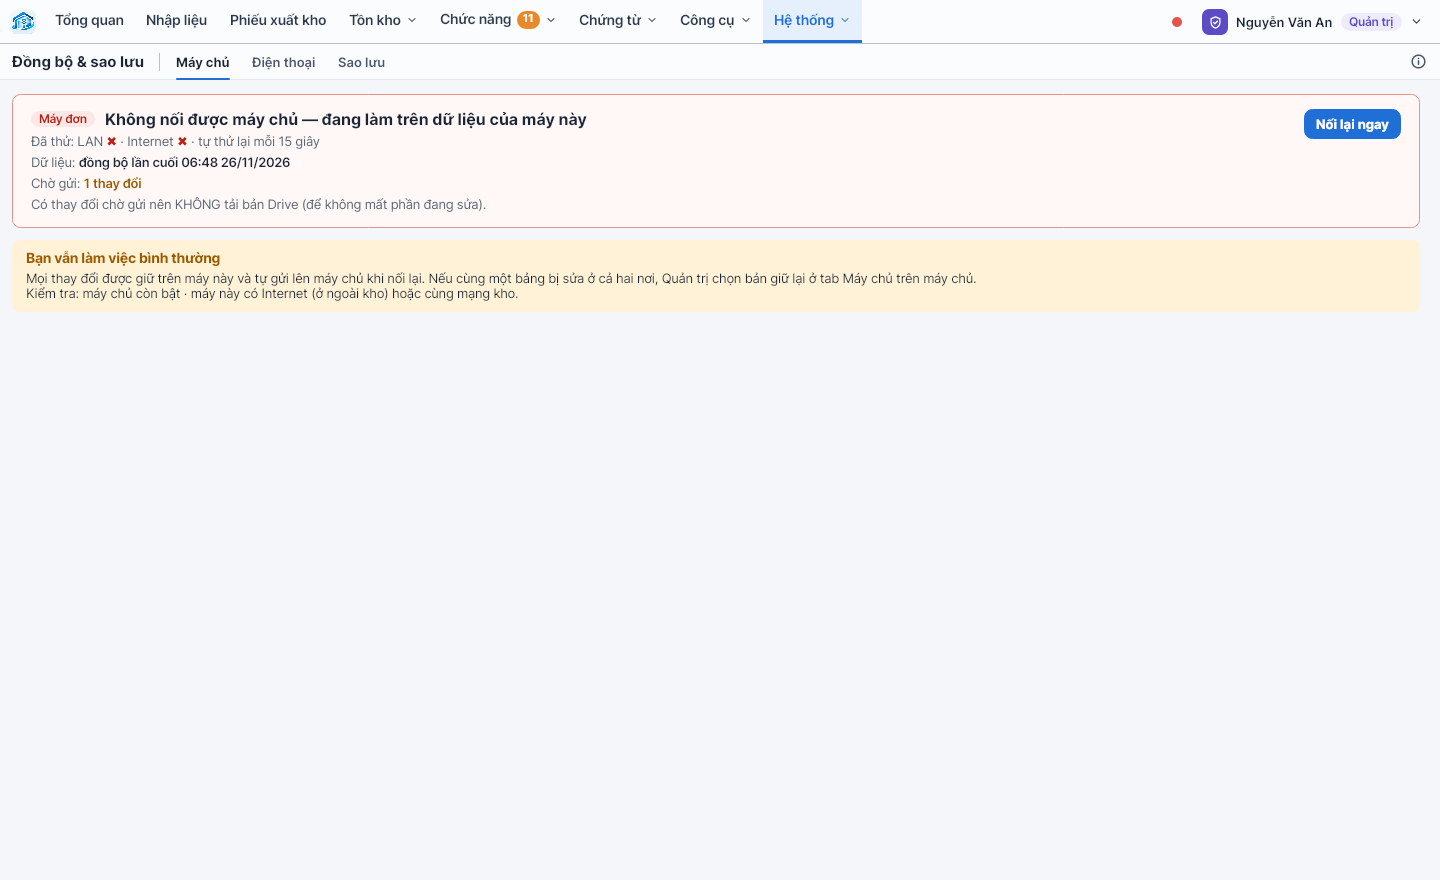
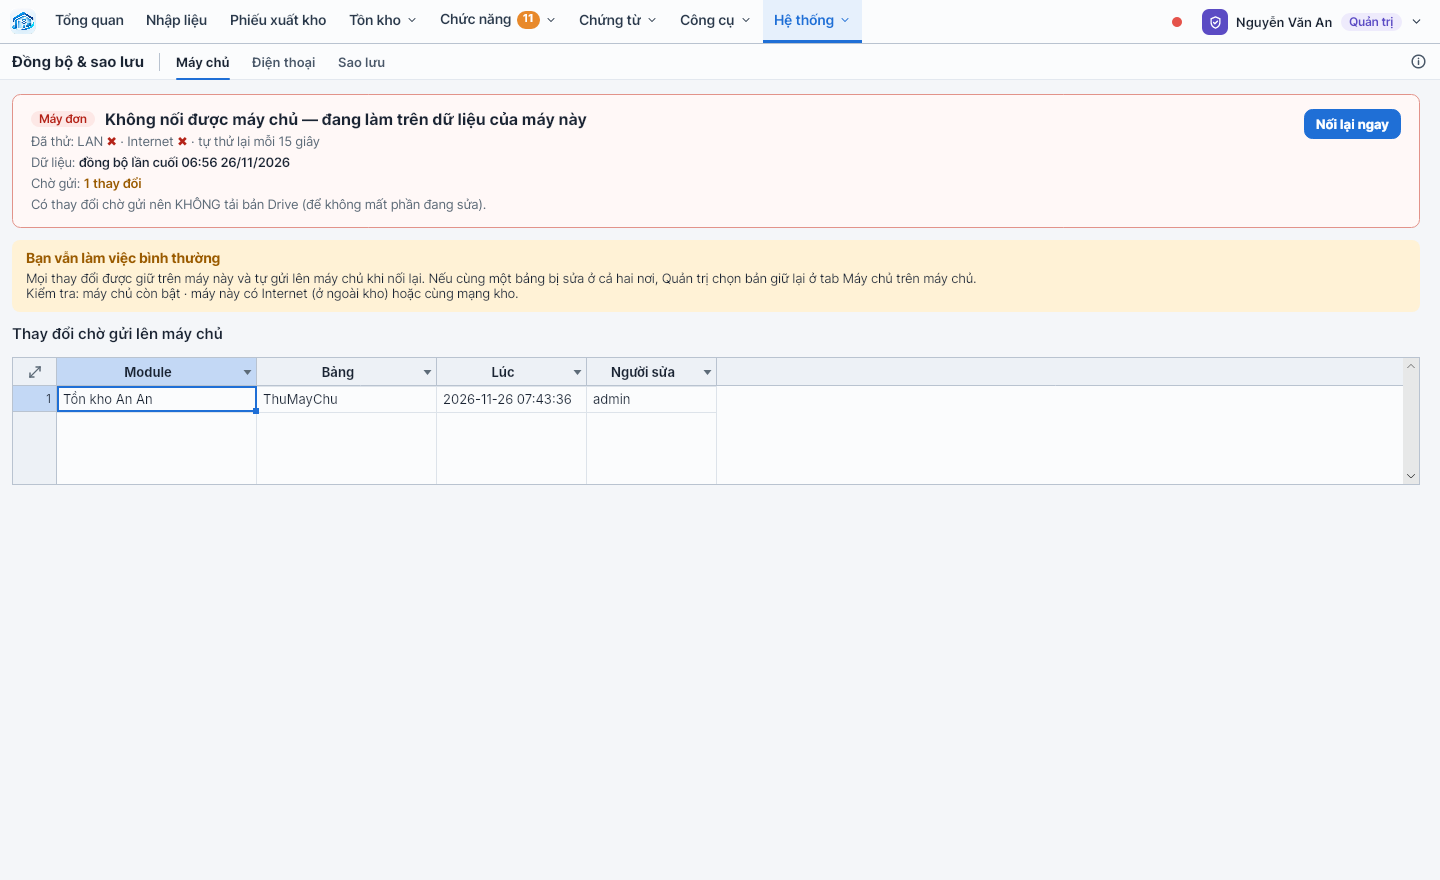
1.121.0: gộp luồng 2 (tab Máy chủ, bỏ Drive dùng chung) — dùng RetryNow / PendingList, ảnh v213, tài liệu
Claude-Session: https://claude.ai/code/session_01MTkPYimQvvPsXpUG8Yg2zd

Changed region(s): [[0.0, 0.3682, 0.25, 0.4909], [0.3125, 0.3989, 0.4688, 0.4602], [0.1562, 0.1841, 0.1875, 0.2148]]

diff --git a/src/KhoLanh.App/Views/MayChuView.cs b/src/KhoLanh.App/Views/MayChuView.cs
@@ -382,11 +382,7 @@ public sealed class MayChuView : UserControl
             {
                 await Ui.Run(this, () =>
                 {
-#if LUONG1
-                    S.Lan.RetryNow();   // luồng 1: vòng sau thử tìm máy chủ ngay
-#else
-                    S.ReloadLan();      // tạm (chưa có LanService.RetryNow): khởi động lại phần LAN → tìm máy chủ ngay
-#endif
+                    S.Lan.RetryNow();   // vòng sau thử tìm máy chủ ngay
                 });
                 Hook();
             }
@@ -398,9 +394,7 @@ public sealed class MayChuView : UserControl
     private void FillPending(int pending)
     {
         List<(string DbKey, string Sheet, string At, string User)> list = new();
-#if LUONG1
         try { list = S.Lan.PendingList(); } catch { }
-#endif
         if (pending == 0 || list.Count == 0) return;
         _pendSec.IsVisible = true;
         var rows = list.Select(x => new[] { KhoLanh.Core.TroLy.TroLyService.DbLabel(x.DbKey), x.Sheet, x.At, x.User }).ToList();

diff --git a/src/KhoLanh.Core/SaoLuu/DriveCaNhanService.cs b/src/KhoLanh.Core/SaoLuu/DriveCaNhanService.cs
@@ -110,7 +110,7 @@ public sealed class DriveCaNhanService
         var lan = _lan();
         if (lan.HoldsMainData) return null;
         return lan.Role == LanService.RoleRemote
-            ? "Máy này là máy xem từ xa (đồng bộ qua Drive dùng chung) — dữ liệu chính ở máy chính, hãy sao lưu / khôi phục ở máy đó."
+            ? "Máy này là máy xem từ xa — dữ liệu chính ở máy chủ, hãy sao lưu / khôi phục ở máy đó."
             : "Máy này là máy con / dự phòng LAN — dữ liệu chính ở máy chủ, hãy sao lưu / khôi phục trên máy chủ.";
     }
 

diff --git a/CLAUDE.md b/CLAUDE.md
@@ -41,7 +41,7 @@ App quản lý kho lạnh **viết lại bằng C#** (.NET 8, Avalonia, SQLite) 
 | 1.39 | Tự tạo List / phiếu theo Lịch xuất (`PNX_AutoLog` dùng chung app cũ) | `LichXuat/LichXuatAuto.cs`, `PhieuKho/PhieuKhoAuto.cs` |
 | 1.40 | Danh mục mã hàng (quyền `m3dm`) | `DanhMuc/` |
 | 1.41 | Kiểm kê nhanh (tab đầu Đối chiếu kiểm kê) | `KiemKe/KkNhanh.cs`, `Views/KiemKeView.Nhanh.cs` |
-| 1.121 | Máy chủ tự động + bỏ Drive dùng chung (người dùng duyệt mẫu https://claude.ai/artifact/GC7duN9rK2i2HAehNG2M9U, chốt: "tự chọn đường nhanh", "máy đơn tự tải bản Drive mới hơn"). Luồng 1 (lõi): `LanService.Via` ("lan" / "net" / ""), `ProbeLan` (đang đi đường hầm → mỗi 60 s thử địa chỉ LAN của máy chủ, chờ 1,5 s, được thì `_goodEp` = LAN), `RetryNow`, `PendingList`, `LastSyncedAt` (settings `lan_synced_at` mỗi lượt Pull), `lan_server_name`; máy đơn: `MaybeOfflineSnapshot` (vai máy con, mất máy chủ ≥ 60 s, `PendingCount() == 0`, 30 phút / lần) → `OfflineSnapshot` = `DriveCaNhanService.NewerServerBackupAsync(server, since)` (thư mục máy chủ trong `KhoLanh_SaoLuu` của Gmail đã đăng nhập, không cần quyền Sao lưu) → `LoadOfflineSnapshot` (`BeforeOfflineSnapshot` chụp `truoc-tai-drive_…`, `SetExact` mọi bảng, `lan_offline_src` / `lan_offline_at`, `lan_sync_epoch` = "" → nối lại tải lại toàn bộ; Pull thành công xóa `lan_offline_src`) · Luồng 2 (agent worktree, giao diện): xem dòng dưới | `LanService.cs`, `DriveCaNhanService.cs`, `AppServices.cs`, test `Dang_di_Internet_ve_toi_kho_tu_chuyen_sang_LAN`, `May_don_tu_dung_ban_Drive_moi_hon_roi_noi_lai_may_chu`, `May_don_co_thay_doi_cho_gui_khong_tai_ban_Drive` |
+| 1.121 | Máy chủ tự động + bỏ Drive dùng chung (người dùng duyệt mẫu https://claude.ai/artifact/GC7duN9rK2i2HAehNG2M9U, chốt: "tự chọn đường nhanh", "máy đơn tự tải bản Drive mới hơn"). Luồng 1 (lõi): `LanService.Via` ("lan" / "net" / ""), `ProbeLan` (đang đi đường hầm → mỗi 60 s thử địa chỉ LAN của máy chủ, chờ 1,5 s, được thì `_goodEp` = LAN), `RetryNow`, `PendingList`, `LastSyncedAt` (settings `lan_synced_at` mỗi lượt Pull), `lan_server_name`; máy đơn: `MaybeOfflineSnapshot` (vai máy con, mất máy chủ ≥ 60 s, `PendingCount() == 0`, 30 phút / lần) → `OfflineSnapshot` = `DriveCaNhanService.NewerServerBackupAsync(server, since)` (thư mục máy chủ trong `KhoLanh_SaoLuu` của Gmail đã đăng nhập, không cần quyền Sao lưu) → `LoadOfflineSnapshot` (`BeforeOfflineSnapshot` chụp `truoc-tai-drive_…`, `SetExact` mọi bảng, `lan_offline_src` / `lan_offline_at`, `lan_sync_epoch` = "" → nối lại tải lại toàn bộ; Pull thành công xóa `lan_offline_src`) · Luồng 2 (agent worktree, commit 3c1e098 cherry-pick): `DongBoView` 3 tab Máy chủ · Điện thoại · Sao lưu (khóa cũ lan / drive / dulieu → Máy chủ, phone, saoluu / dcn), `Views/MayChuView` (5 tình huống: máy chủ · máy con · máy đơn có chờ gửi · máy đơn dùng bản Drive · máy đơn chưa bật LAN; không hiện IP máy chủ / cổng / mã; ⋯ Thêm: Địa chỉ Internet của máy chủ…, Nhật ký, Bỏ máy dự phòng), `Lan/DriveRetire` + `AppServices.RetireDriveSync` (mở app: máy chính Drive → lượt cuối `ReleaseOnExit` rồi tắt; máy xem từ xa → chụp `truoc-bo-drive_…`, giữ sổ chờ, vai "" → tự nối máy chủ theo kế hoạch LAN; settings `drive_bo`), `App.StartLan` / `LoginWindow` bỏ Drive, quyền `drivepush` bỏ khỏi `Perm.Items`, Trợ lý bỏ kiểm Drive dùng chung + Sửa nhanh "dong-bo-drive" · Email lịch xuất (người dùng: "vì sao app tải toàn bộ thư" — 813 thư mỗi lượt, quá 3 phút): `ImapMailSource` tải nội dung mọi thư trong chuỗi có LSX (số ngày + 30) mỗi lượt + cả file đính kèm → `MailCache` (`email-lich-xuat-dem.json` cạnh database, khóa mã thư Gmail, giữ số ngày + 45) chỉ tải thư mới, `ReadAsync` chỉ lấy phần chữ (BodyStructure → TextBody / HtmlBody) | `LanService.cs`, `DriveCaNhanService.cs`, `AppServices.cs`, `MayChuView.cs`, `DongBoView.cs`, `DriveRetire.cs`, `LichXuatMail.cs`, test `Dang_di_Internet_ve_toi_kho_tu_chuyen_sang_LAN`, `May_don_tu_dung_ban_Drive_moi_hon_roi_noi_lai_may_chu`, `May_don_co_thay_doi_cho_gui_khong_tai_ban_Drive`, `BoDriveDungChungTests`, `EmailLichXuatDemTests`, chụp `SHOTS_ONLY=v213` (tự kiểm) |
 | 1.120 | Báo cáo Trợ lý 26/11 (app 1.119, 8 phát hiện: Tồn kho gửi › DuLieuChinh 1037 nhóm ×2, Tồn vị trí › ViTri 8196 nhóm ×2, 22 xung đột LAN): gốc lỗi `SheetMerge.ThreeWay` — bản gốc TRỐNG (máy con chưa từng có bảng khi bắt đầu sửa riêng, vd máy mới / vừa tách) + hai bên nạp file khác nhau → mọi dòng máy con là "thêm mới" → nối vào bản máy chủ = nhân đôi (nhận ra vì trùng khóa > trùng hoàn toàn: dòng đổi giữa 2 file thành trùng khóa). Nay: gốc trống + hai bên đều có dữ liệu + máy con không nằm gọn trong máy chủ → xung đột "hai bên cùng nạp / tạo bảng" (giữ bản máy chủ, vào Trùng sửa). Dữ liệu đã nhân đôi: Trùng sửa › mục "Đã tự gộp" › Hoàn tác gộp, hoặc nạp lại file · Trợ lý `TroLyChecks.SkipDupSheet` (bỏ `FileNap*` = bản chép file gốc, tiêu đề lặp là của file; bỏ db `nhap-lieu` = người dùng gõ cùng mã nhiều dòng), `FindDupKeys` dòng lặp ≥ nửa bảng → chỉ cách sửa | `SheetMerge.cs`, `TroLyChecks.cs`, `TroLyService.cs`, test `BaoCaoTroLy120Tests` |
 | 1.119 | Chép chữ toàn app (người dùng: "app không cho copy ký tự" → app PC, "muốn cho copy"): `Controls/CopyText` (class handler `ContextRequestedEvent` cho `TextBlock`: chuột phải → ContextMenu "Chép chữ này" / "Chép cả khung" = mọi dòng chữ trong khung chứa gần nhất có 2–80 dòng; bỏ qua `SelectableTextBlock`, chữ trong Button / MenuItem / TabItem / ComboBox / TextBox / ToggleButton / ToolTip và control đã có ContextMenu / ContextFlyout; `Eligible`, `AllText`), cài ở `App.Initialize` · `Ui.Message / Confirm / Pick / Prompt / Choose` dùng `SelectableTextBlock` (bôi đen + Ctrl+C) | `CopyText.cs`, `Ui.cs`, `App.axaml.cs`, chụp `SHOTS_ONLY=v212` (tự kiểm: giả lập ContextRequested, hộp thông báo) |
 | 1.118 | Máy đang nối theo 2 loại (người dùng: "danh sách máy đang kết nối máy chủ theo 2 loại: qua LAN / online"): `LanService.Seen` thêm `ViaNet` / `NetIp`, `Handle(req, remote, netIp)` (khác null = đến qua đường hầm; `LanHttpServer` nay chuyển IP `cf-connecting-ip` cho handler — chỉ để hiện, không dùng nối lại), `MachinesByWay()`, `Machines()` bỏ chính máy này (Kiểm tra nối từ xa tự gọi qua đường hầm), `Short` ghi "· n máy qua Internet" · `LanView`: `MachinesGrid` (LAN) + `NetMachinesGrid` (Internet), cột Tài khoản, tiêu đề có số máy. Trả lời người dùng: 1 tài khoản đăng nhập nhiều máy cùng lúc ĐƯỢC (không có khóa phiên) | `LanService.cs`, `LanHttp.cs`, `LanView.axaml(.cs)`, test `May_noi_trong_mang_LAN_nam_o_danh_sach_LAN` + `May_o_xa_noi_may_chu_qua_duong_ham_https` (thêm), chụp `SHOTS_ONLY=v211` (tự kiểm) |

diff --git a/README.md b/README.md
@@ -69,7 +69,7 @@ App đang được dựng lại theo từng module (từ bản 1.7.0 đã gỡ c
 | Nhập liệu: Lô · Đặc tính + Đóng trang (1.115) | Mẫu **Kiểm kê** thêm 2 cột **Lô** và **Đặc tính** trước Ghi chú: gõ lô (dạng `22.05.26 L16`) → Đặc tính tự lấy từ **Kết quả kháng sinh** như phiếu xuất nội địa (lô chưa có kết quả → để trống; sửa tay được, giữ tới khi đổi lô); trang kiểm kê cũ tự thêm 2 cột, dữ liệu giữ nguyên; Đối chiếu kiểm kê đọc được Lô / Đặc tính. Nút **✕ Đóng trang** cạnh "+ Trang mới": lưu (nếu có sửa) rồi đóng trang đang mở ([ảnh](docs/anh/v208-kiem-ke-lo-dac-tinh.png)). |
 | Khôi phục theo 2 chế độ tự động (1.114) | **Máy đang nối máy chủ LAN** (máy chủ, máy con / dự phòng đang nối) → **khóa khôi phục** (không ảnh hưởng dữ liệu chung). **Máy ngoài LAN** (máy đơn, máy LAN đang không nối được máy chủ, máy xem từ xa qua Drive) → khôi phục bình thường với quyền mới **"Khôi phục dữ liệu"** (Quản trị luôn có, tài khoản khác tích riêng); máy đang ở LAN / Drive thì khôi phục xong **tự tách ra dùng dữ liệu riêng** — không gửi gì lên, máy chủ và máy trong LAN không bị ảnh hưởng; dùng chung lại: Giữa các máy › Chỉ máy này › **Nối lại mạng LAN**. Khôi phục luôn giữ cài đặt của chính máy (bản sao lưu của máy khác không mang vai / khóa LAN sang) ([ảnh](docs/anh/v207-noi-lai-lan.png)). |
 | Máy chủ ở nhà, máy ở xa nối qua Internet (1.113) | PC cá nhân làm máy chủ, máy ở kho / nơi khác **chỉ cần Internet + đăng nhập**, không cài gì: PC máy chủ chạy Cloudflare Tunnel (`kho.kcenter.xyz`), app nhận gói tin LAN qua HTTPS (vẫn mã hóa bằng khóa LAN, chống gửi lại gói cũ), địa chỉ từ xa đi theo Google Sheet chung. Khung **Máy chủ từ xa** ở Đồng bộ & sao lưu › Giữa các máy › Máy chủ LAN (nhập địa chỉ, Kiểm tra nối từ xa); Trợ lý báo Nặng khi đường hầm hỏng. Hướng dẫn: [docs/MAY-CHU-TU-XA.md](docs/MAY-CHU-TU-XA.md) ([ảnh](docs/anh/v204-may-chu-tu-xa.png)). |
-| Máy chủ tự động + bỏ Drive dùng chung (1.121) | **Đồng bộ & sao lưu** còn 3 tab: **Máy chủ · Điện thoại · Sao lưu**. Đường nối tự động, không có ô cài đặt: cùng mạng kho → LAN; ở ngoài / LAN hỏng → Internet (`kho.kcenter.xyz`), đang đi Internet mà về kho thì tự chuyển LAN; không nối được → **máy đơn**. Máy đơn không có thay đổi chờ gửi mà bản sao lưu Drive cá nhân của máy chủ mới hơn → tự tải về dùng (bản cũ cất ở Sao lưu trên máy); máy chủ bật lại thì tự nối, gửi phần sửa. Bỏ hẳn "Thư mục / Drive dùng chung" (máy cũ tự chuyển). |
+| Máy chủ tự động + bỏ Drive dùng chung (1.121) | **Đồng bộ & sao lưu** còn 3 tab: **Máy chủ · Điện thoại · Sao lưu**. Đường nối tự động, không có ô cài đặt: cùng mạng kho → LAN; ở ngoài / LAN hỏng → Internet (`kho.kcenter.xyz`), đang đi Internet mà về kho thì tự chuyển LAN; không nối được → **máy đơn**. Máy đơn không có thay đổi chờ gửi mà bản sao lưu Drive cá nhân của máy chủ mới hơn → tự tải về dùng (bản cũ cất ở Sao lưu trên máy); máy chủ bật lại thì tự nối, gửi phần sửa. Bỏ hẳn "Thư mục / Drive dùng chung" (máy cũ tự chuyển). Email lịch xuất: chỉ tải thư mới (nhớ thư đã đọc) và chỉ phần chữ, không tải file đính kèm — hết lỗi "quá 3 phút chưa đọc xong hộp thư". |
 | Không nhân đôi dữ liệu khi gộp LAN (1.120) | Máy con chưa từng có một bảng mà nạp file trong lúc mất máy chủ, còn máy chủ đã có bảng đó → trước đây tự gộp nối 2 bản (Tồn kho gửi / Tồn vị trí gần như mọi dòng ×2); nay giữ bản máy chủ, bản máy con vào **Trùng sửa** cho Quản trị chọn. Trợ lý không dò trùng ở bản chép file gốc (FileNap) và trang Nhập liệu; bảng bị nhân đôi thì chỉ cách sửa (Hoàn tác gộp / nạp lại file). |
 | Chép chữ toàn app (1.119) | Chuột phải vào dòng chữ bất kỳ (tiêu đề, trạng thái, ghi chú, khung thông tin…) › **Chép chữ này** / **Chép cả khung**; hộp thông báo / lỗi / xác nhận cho **bôi đen + Ctrl+C** trực tiếp. Bảng vẫn chép bằng Ctrl+C như cũ. |
 | Máy đang nối theo 2 loại (1.118) | Đồng bộ & sao lưu › Giữa các máy › Máy chủ LAN › **Máy đang nối**: 2 bảng — máy nối **trong mạng LAN** và máy nối **qua Internet** (đường hầm Cloudflare, kèm IP Internet), có cột **Tài khoản** đang đăng nhập; dòng trạng thái máy chủ ghi thêm số máy qua Internet. |
